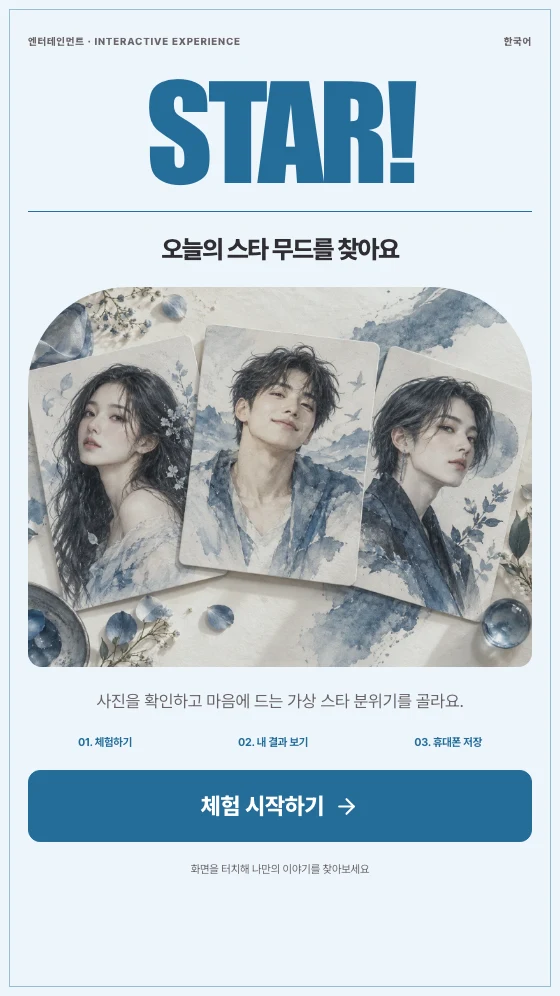
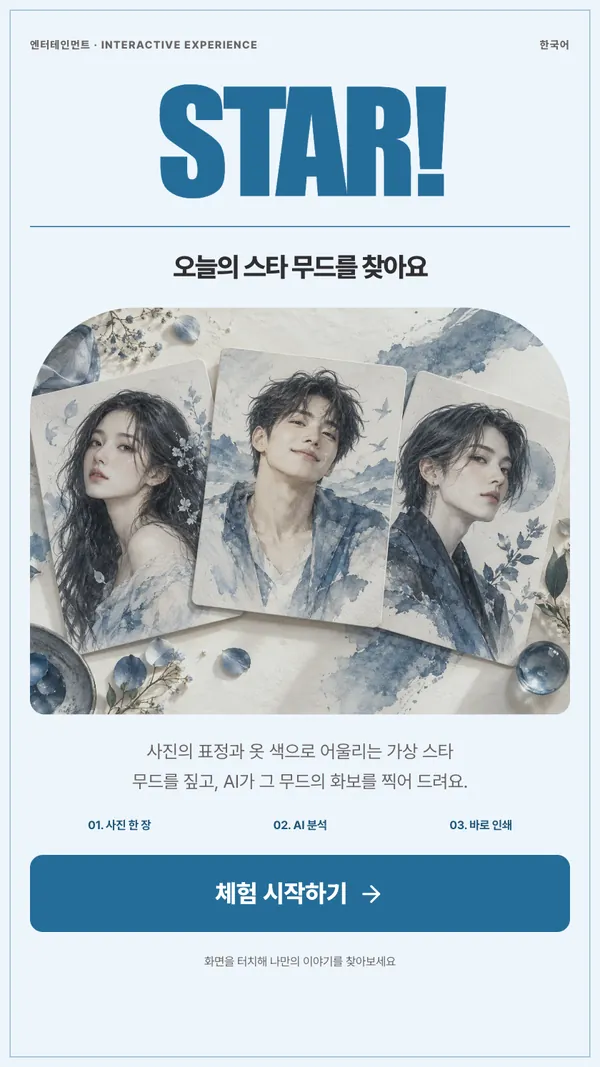
feat(kiosk-demo): show the AI-powered 18 experiences on the sales landing
- Hero kiosk now rotates five new experiences (star mood, outfit, aura,
  heritage, cocktail) with five existing ones.
- Card descriptions say what the AI does; new "AI 분석" tag for the twelve
  analysis modes, "AI 생성" for the six image-synthesis modes.
- New "AI 분석 · 합성" feature; receipt and timing notes updated.
- Re-shot the 18 thumbnails from the current start screens (photo · AI 분석 ·
  바로 인쇄 steps) at the same 600×1067 size as the other ten.

diff --git a/src/lib/kiosk/expansion/types.ts b/src/lib/kiosk/expansion/types.ts
@@ -6,7 +6,7 @@ export const EXPANSION_META = {
     "name": "소믈리에",
     "tag": "SIP!",
     "color": "#6B2941",
-    "note": "사진(표정·옷 색) + 단맛·산미·바디감 → 와인 스타일과 테이스팅 카드",
+    "note": "사진 + 단맛·산미·바디감 → AI가 골라 풀어 주는 와인 스타일과 테이스팅 카드",
     "category": "식음료",
     "hero": "/assets/kiosk-expansion/sommelier.webp"
   },
@@ -14,7 +14,7 @@ export const EXPANSION_META = {
     "name": "칵테일 크리에이터",
     "tag": "MIX!",
     "color": "#E65B39",
-    "note": "사진(표정·옷 색) + 기분·맛 → 나만의 칵테일·논알코올 레시피",
+    "note": "사진 + 기분·맛 → AI가 골라 주는 나만의 칵테일·논알코올 레시피",
     "category": "식음료",
     "hero": "/assets/kiosk-expansion/cocktail.webp"
   },
@@ -22,7 +22,7 @@ export const EXPANSION_META = {
     "name": "바리스타 매칭",
     "tag": "BREW!",
     "color": "#684333",
-    "note": "사진(표정·옷 색) + 산미·고소함·추출법 → 원두와 한 잔의 프로필",
+    "note": "사진 + 산미·고소함·추출법 → AI가 골라 주는 원두와 추출 가이드",
     "category": "식음료",
     "hero": "/assets/kiosk-expansion/barista.webp"
   },
@@ -30,7 +30,7 @@ export const EXPANSION_META = {
     "name": "미각 DNA",
     "tag": "TASTE!",
     "color": "#5D6C36",
-    "note": "사진(표정·옷 색) + 좋아하는 맛 → 취향 지도와 음식 조합",
+    "note": "사진 + 좋아하는 맛 → AI가 풀어 주는 맛 지도와 음식 조합",
     "category": "식음료",
     "hero": "/assets/kiosk-expansion/taste-dna.webp"
   },
@@ -38,7 +38,7 @@ export const EXPANSION_META = {
     "name": "스타일 프로파일러",
     "tag": "STYLE!",
     "color": "#272B35",
-    "note": "사진(지금 입은 옷 색) + 스타일·상황 → 취향 무드보드",
+    "note": "지금 입은 옷 사진 + 스타일·상황 → AI 스타일 무드보드",
     "category": "패션",
     "hero": "/assets/kiosk-expansion/style-profiler.webp"
   },
@@ -46,7 +46,7 @@ export const EXPANSION_META = {
     "name": "코디 추천",
     "tag": "LOOK!",
     "color": "#3E6260",
-    "note": "사진(지금 입은 옷 색) + 날씨·상황 → 아이템별 코디와 대안",
+    "note": "지금 입은 옷 사진 + 날씨·상황 → AI가 추천 코디를 입혀 주는 룩북",
     "category": "패션",
     "hero": "/assets/kiosk-expansion/coord.webp"
   },
@@ -54,7 +54,7 @@ export const EXPANSION_META = {
     "name": "가상 스타 무드 체험",
     "tag": "STAR!",
     "color": "#256D99",
-    "note": "사진(표정·옷 색)으로 짚어 주는 가상 스타 3명의 사진 무드 · 실존 인물 비교 없음",
+    "note": "표정·옷 색으로 짚는 가상 스타 무드 → AI 화보 사진 · 실존 인물 비교 없음",
     "category": "엔터테인먼트",
     "hero": "/assets/kiosk-expansion/lookalike.webp"
   },
@@ -62,7 +62,7 @@ export const EXPANSION_META = {
     "name": "과학 체험",
     "tag": "LAB!",
     "color": "#2664BA",
-    "note": "빛의 삼원색 실험 → 내 옷 색을 빛으로 만드는 미션까지",
+    "note": "빛의 삼원색 실험 · 내 옷 색 미션 → AI 선생님의 실험 해설",
     "category": "교육",
     "hero": "/assets/kiosk-expansion/science.webp"
   },
@@ -70,7 +70,7 @@ export const EXPANSION_META = {
     "name": "손금 이야기",
     "tag": "PALM!",
     "color": "#3B5B72",
-    "note": "손을 펼친 모양 → 설명용 손 그림으로 즐기는 창작 이야기",
+    "note": "손을 펼친 모양 → AI가 지어 주는 손 위의 창작 이야기",
     "category": "운세",
     "hero": "/assets/kiosk-expansion/palm.webp"
   },
@@ -78,7 +78,7 @@ export const EXPANSION_META = {
     "name": "오라 컬러 체험",
     "tag": "AURA!",
     "color": "#785DA9",
-    "note": "사진(표정·옷 색) + 기분·색 → 오늘의 컬러 카드와 작은 행동",
+    "note": "사진 + 기분·색 → AI 오라 컬러 사진과 오늘의 작은 행동",
     "category": "운세",
     "hero": "/assets/kiosk-expansion/aura.webp"
   },
@@ -86,7 +86,7 @@ export const EXPANSION_META = {
     "name": "제품 인터랙티브 체험관",
     "tag": "TOUCH!",
     "color": "#276F7A",
-    "note": "사진(공간의 빛·옷 색)으로 맞춘 조명 → 회전·색·밝기 탐색과 연결 디스플레이",
+    "note": "사진 속 빛으로 맞춘 가상 조명 → 회전·색·밝기 탐색과 AI 공간 제안",
     "category": "기업",
     "hero": "/assets/kiosk-expansion/product.webp"
   },
@@ -94,7 +94,7 @@ export const EXPANSION_META = {
     "name": "팀 케미",
     "tag": "TEAM!",
     "color": "#D07735",
-    "note": "함께 찍은 사진 + 2~6명의 답변 → 함께 고른 관심사·하고 싶은 역할",
+    "note": "단체 사진 + 2~6명의 답변 → 함께 고른 관심사와 AI 팀 포스터",
     "category": "기업",
     "hero": "/assets/kiosk-expansion/team.webp"
   },
@@ -102,7 +102,7 @@ export const EXPANSION_META = {
     "name": "비전 월",
     "tag": "VISION!",
     "color": "#314C97",
-    "note": "사진(옷 색·표정)으로 고른 카드에 한 문장 → 벽면의 공동 비전 작품",
+    "note": "사진으로 고른 카드에 한 문장 → 전시 벽 게시와 AI 응원 해설",
     "category": "기업",
     "hero": "/assets/kiosk-expansion/vision-wall.webp"
   },
@@ -110,7 +110,7 @@ export const EXPANSION_META = {
     "name": "문화유산 타임머신",
     "tag": "HERITAGE!",
     "color": "#315C6B",
-    "note": "사진 속 빛으로 고른 시간대 → 문화유산 재현 장면과 연결 전시 화면",
+    "note": "궁궐 장면·시대·빛 탐험 → AI 타임머신 사진(옛 풍경은 한복)",
     "category": "관광",
     "hero": "/assets/kiosk-expansion/heritage.webp"
   },
@@ -118,7 +118,7 @@ export const EXPANSION_META = {
     "name": "여행 성향",
     "tag": "TRIP!",
     "color": "#268075",
-    "note": "사진(표정·옷 색) + 여행에서 원하는 것 → 여행 취향과 하루 코스",
+    "note": "사진 + 여행에서 원하는 것 → AI가 골라 주는 여행 코스",
     "category": "관광",
     "hero": "/assets/kiosk-expansion/travel.webp"
   },
@@ -126,7 +126,7 @@ export const EXPANSION_META = {
     "name": "향수 소울메이트",
     "tag": "SCENT!",
     "color": "#58694F",
-    "note": "사진(옷 색·표정) + 향 취향·무드 → 향 노트와 시향 카드",
+    "note": "사진 + 향 취향·무드 → AI가 골라 주는 시향 후보와 노트",
     "category": "기존 기능 확장",
     "hero": "/assets/kiosk-expansion/scent.webp"
   },
@@ -134,7 +134,7 @@ export const EXPANSION_META = {
     "name": "관상에서 착안한 이야기",
     "tag": "FACE!",
     "color": "#805849",
-    "note": "사진(표정)·주제 선택 → 전통 관상에서 착안한 창작 이야기",
+    "note": "표정 사진 + 오늘의 주제 → 관상에서 착안한 AI 창작 이야기",
     "category": "기존 기능 확장",
     "hero": "/assets/kiosk-expansion/face.webp"
   },
@@ -142,7 +142,7 @@ export const EXPANSION_META = {
     "name": "커플 케미",
     "tag": "US!",
     "color": "#A65258",
-    "note": "두 사람 사진 + 취향·대화 질문 → 같은 점·다른 점·데이트 아이디어",
+    "note": "두 사람 사진 + 취향 질문 → 같은 점·다른 점과 AI 커플 포스터",
     "category": "기존 기능 확장",
     "hero": "/assets/kiosk-expansion/couple.webp"
   }

diff --git a/src/app/kiosk-demo/page.tsx b/src/app/kiosk-demo/page.tsx
@@ -1,5 +1,5 @@
 import type { Metadata } from 'next'
-import { ArrowDown, ArrowUpRight, Languages, LayoutGrid, Printer, Smartphone, Sparkles } from 'lucide-react'
+import { ArrowDown, ArrowUpRight, Languages, LayoutGrid, Printer, Smartphone, Sparkles, WandSparkles } from 'lucide-react'
 import type { CSSProperties, ReactNode } from 'react'
 import { KIOSK_DEMOS, KIOSK_DEMO_NEEDS, kioskDemoHref, type KioskDemo } from '@/lib/kiosk/demo'
 import './kiosk-demo.css'
@@ -26,17 +26,19 @@ const FEATURES = [
   { Icon: LayoutGrid, title: '프로그램 전환', text: '관리자 화면에서 키오스크마다 다른 프로그램을 골라 운영합니다.' },
   { Icon: Languages, title: '언어 안내', text: '기존 10종은 5개 언어, 새로 추가된 18종은 한국어로 제공합니다.' },
   { Icon: Smartphone, title: '휴대폰으로 받기', text: '체험 스튜디오의 결과는 QR을 찍어 휴대폰에 저장합니다.' },
-  { Icon: Printer, title: '영수증 출력', text: '사주 · 컬러 · 타로 · 스킨케어 · 캐리커처 · 명함과 새 체험 18종은 결과를 영수증으로도 뽑습니다.' },
+  { Icon: WandSparkles, title: 'AI 분석 · 합성', text: '새 체험 18종은 사진과 답변을 AI가 함께 보고 풀이하고, 그중 6종은 사진으로 화보 · 오라 · 타임머신 · 포스터 · 룩북을 새로 만듭니다.' },
+  { Icon: Printer, title: '영수증 출력', text: '사주 · 컬러 · 타로 · 스킨케어 · 캐리커처 · 명함은 영수증으로도 뽑고, 새 체험 18종은 결과 화면의 인쇄하기 한 번이면 바로 나옵니다.' },
   { Icon: Sparkles, title: '행사 맞춤', text: '첫 화면 문구와 배경, 영수증 문구를 행사에 맞춰 바꿀 수 있습니다.' },
 ]
 const NOTES = [
   '카메라나 마이크를 쓰는 프로그램은 브라우저가 권한을 물을 때 허용해 주세요.',
-  'AI가 그림을 그리는 프로그램은 결과가 나오기까지 10초쯤 걸립니다.',
+  'AI가 분석하는 데 3~7초, 사진으로 그림을 새로 만드는 프로그램은 10~20초쯤 걸립니다.',
   '영수증 출력은 프린터가 달린 실제 키오스크에서 동작합니다. 브라우저에서는 미리보기로 보여 줍니다.',
   '데모 화면에는 NEANDER 워터마크가 표시됩니다. 실제 매장 키오스크에는 표시되지 않습니다.',
 ]
 /** 머리말의 키오스크 한 대 — 화면이 이 차례로 3초마다 바뀐다(움직임 줄이기를 켠 브라우저는 첫 화면에 머문다) */
-const HERO = ['ai-tarot', 'studio-draw', 'studio-voice', 'studio-card', 'ai-color', 'studio-makeup', 'studio-nail', 'studio-career', 'studio-skin', 'kwave-2026']
+// 새 체험 다섯(스타 무드 · 코디 · 오라 · 문화유산 · 칵테일)과 기존 다섯을 번갈아 — 칸 수는 kiosk-demo.css 의 30초 순환(10칸)에 맞춘다
+const HERO = ['studio-lookalike', 'ai-tarot', 'studio-coord', 'studio-draw', 'studio-aura', 'studio-card', 'studio-heritage', 'ai-color', 'studio-cocktail', 'kwave-2026']
   .map((mode) => KIOSK_DEMOS.find((demo) => demo.mode === mode)!)
 
 /**

diff --git a/src/lib/kiosk/demo.ts b/src/lib/kiosk/demo.ts
@@ -5,9 +5,10 @@
 /** 데모로 연 화면임을 알리는 주소 칸 */
 export const KIOSK_DEMO_PARAM = 'demo'
 
+import { usesImage } from './expansion/image-prompts'
 import { EXPANSION_IDS, EXPANSION_META } from './expansion/types'
 
-export type KioskDemoNeed = 'camera' | 'mic' | 'ai' | 'touch' | 'display'
+export type KioskDemoNeed = 'camera' | 'mic' | 'ai' | 'analysis' | 'touch' | 'display'
 
 export interface KioskDemo {
   /** 운영 모드 id(src/lib/kiosk/modes.ts) */
@@ -22,7 +23,7 @@ export interface KioskDemo {
   color: string
 }
 
-export const KIOSK_DEMO_NEEDS: Record<KioskDemoNeed, string> = { camera: '카메라', mic: '마이크', ai: 'AI 생성', touch: '터치', display: '전시 화면 연동' }
+export const KIOSK_DEMO_NEEDS: Record<KioskDemoNeed, string> = { camera: '카메라', mic: '마이크', ai: 'AI 생성', analysis: 'AI 분석', touch: '터치', display: '전시 화면 연동' }
 
 export const KIOSK_DEMOS: KioskDemo[] = [
   { mode: 'kwave-2026', tag: 'SAJU!', name: '사주 향 처방', desc: '생년월일시로 사주 오행을 읽고, 부족한 기운을 채우는 향을 처방전 영수증으로 뽑아 줍니다.', needs: ['touch', 'ai'], group: 'reading', color: '#1f5a45' },
@@ -36,8 +37,8 @@ export const KIOSK_DEMOS: KioskDemo[] = [
   { mode: 'studio-career', tag: 'NEXT!', name: '미래 직업 탐색', desc: '관심사 · MBTI · 재미로 보는 관상으로 어울리는 직업을 찾아 줍니다.', needs: ['touch', 'camera'], group: 'studio', color: '#315ca8' },
   { mode: 'studio-makeup', tag: 'MAKEUP!', name: '버추얼 메이크업', desc: '내 얼굴에 립 · 아이 · 블러셔 · 헤어 색을 올려 보고 머리 모양도 바꿔 봅니다.', needs: ['camera', 'ai'], group: 'studio', color: '#754f70' },
   ...EXPANSION_IDS.map((id): KioskDemo => ({ mode:`studio-${id}`, tag:EXPANSION_META[id].tag, name:EXPANSION_META[id].name, desc:EXPANSION_META[id].note, color:EXPANSION_META[id].color,
-    // 18종 모두 사진 한 장으로 시작한다(사진 없이도 되는 체험도 카메라가 있어야 제대로 보인다)
-    needs: ['product','heritage','vision-wall'].includes(id) ? ['camera','touch','display'] : ['camera','touch'],
+    // 18종 모두 사진 한 장으로 시작하고 AI 가 분석한다. 6종은 사진으로 새 그림까지 만든다(AI 생성)
+    needs: ['camera', usesImage(id) ? 'ai' : 'analysis', ...(['product','heritage','vision-wall'].includes(id) ? ['display' as const] : [])],
     group:['science','product','heritage','vision-wall'].includes(id) ? 'interactive' : ['team','couple','lookalike','palm','face'].includes(id) ? 'social' : 'preferences',
   })),
 ]
